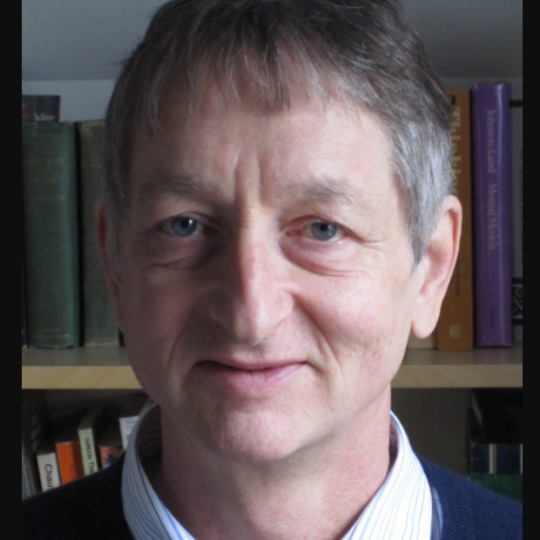
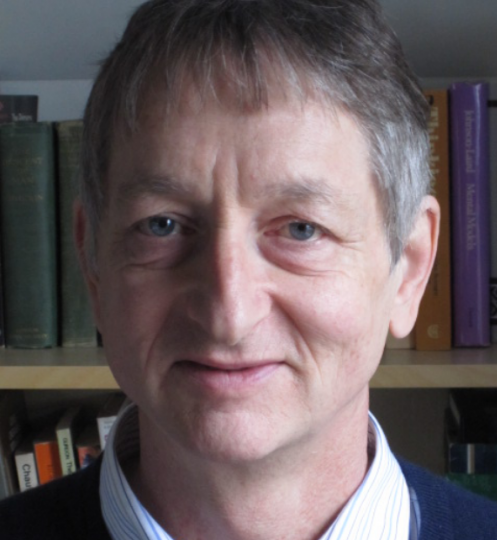
Updated photos and added Aby

diff --git a/src/components/about-us/Volunteers.js b/src/components/about-us/Volunteers.js
@@ -36,7 +36,7 @@ const volunteers = [
     src: "./Headshots/geoffrey.png",
     role: "Advisor",
     degrees: ", PhD",
-    titles: "Chief Scientific Advisor at Vector Institute PhD"
+    titles: "Chief Scientific Advisor at Vector Institute"
   },
   {
     name: "Marzyeh Ghassemi",
@@ -53,6 +53,14 @@ const volunteers = [
     role: "Advisor",
     degrees: ", MHPE, MD, FRSCS",
     titles: "Intensivist"
+  },
+  {
+    name: "Aby Mathews Maluvelil",
+    src: "./Headshots/aby.png",
+    link: "https://www.linkedin.com/in/drabymathews",
+    role: "Advisor",
+    degrees: "",
+    titles: "Healthcare IT Specialist"
   },
   {
     name: "Anastasia Razdaibiedina",
